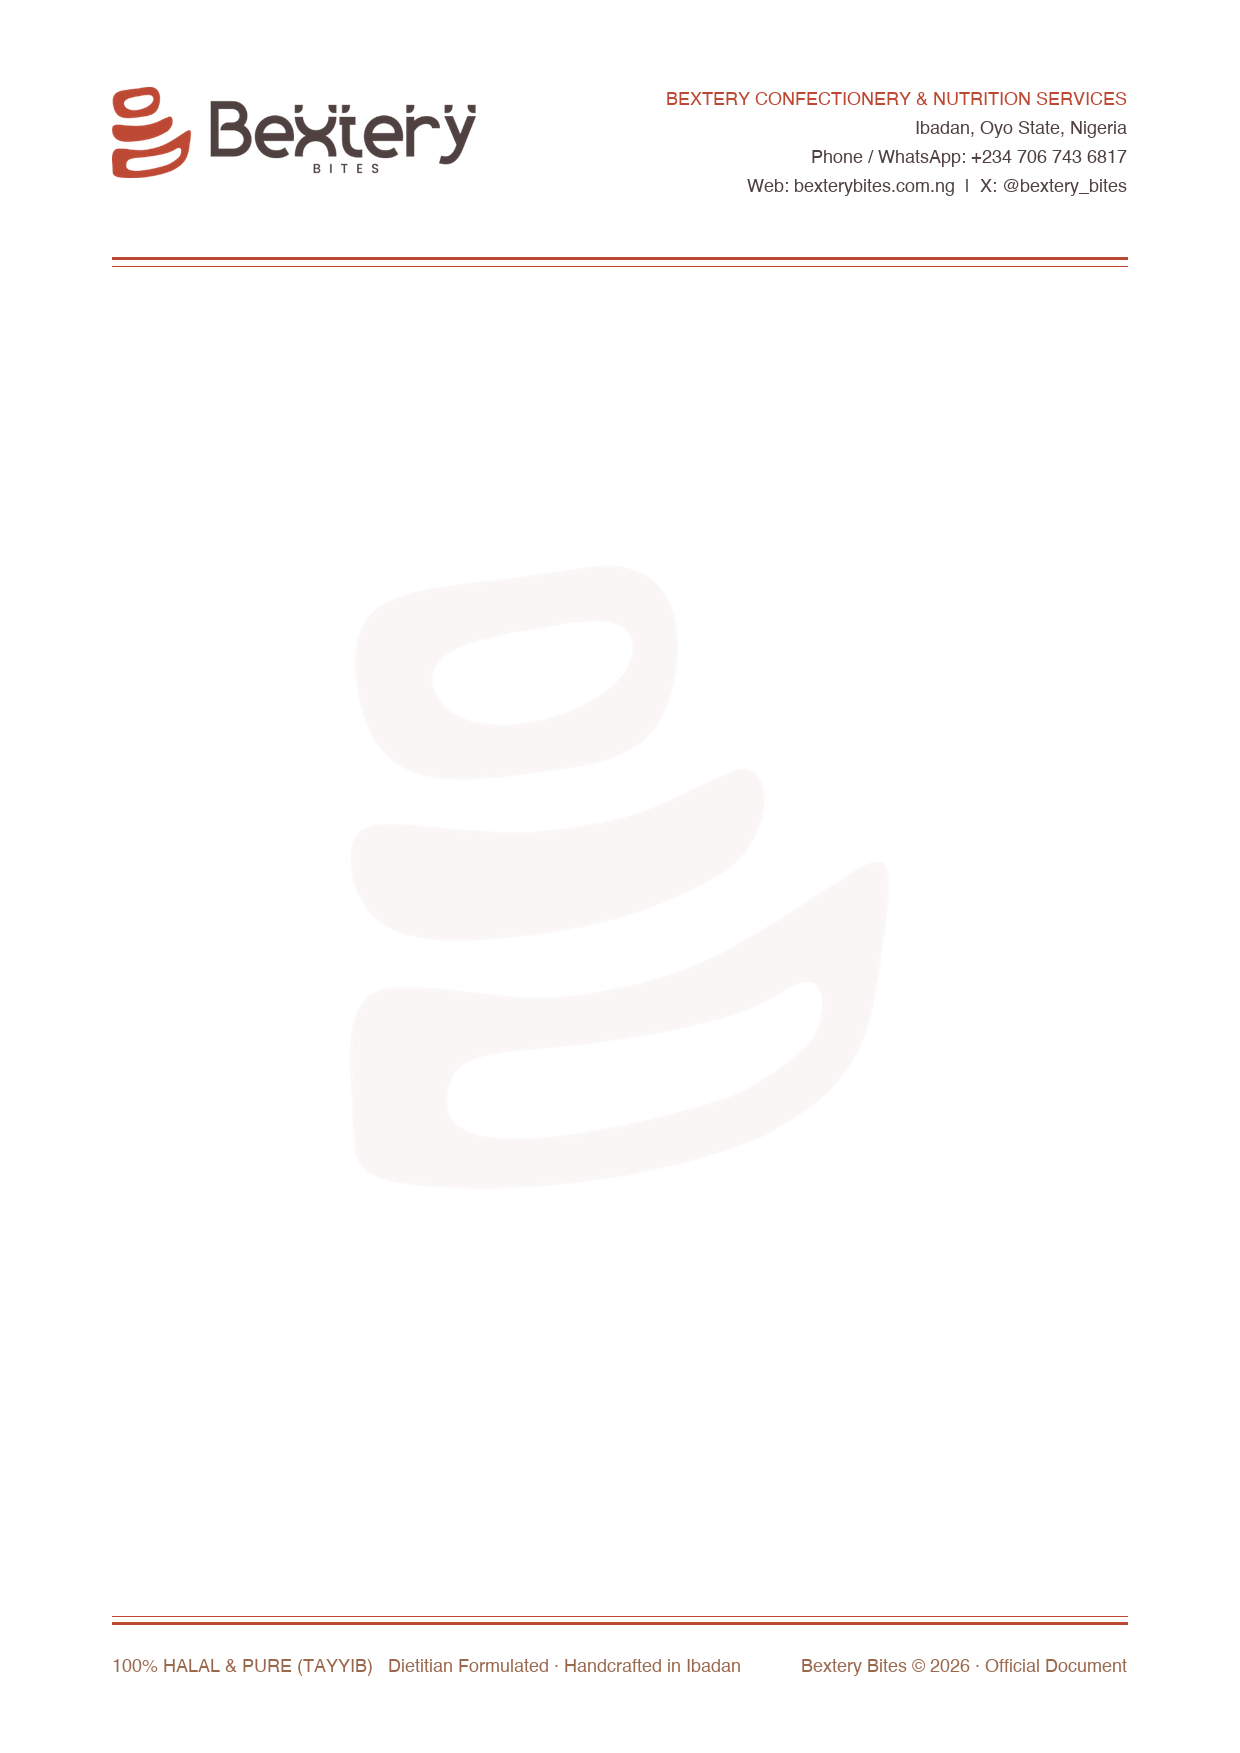
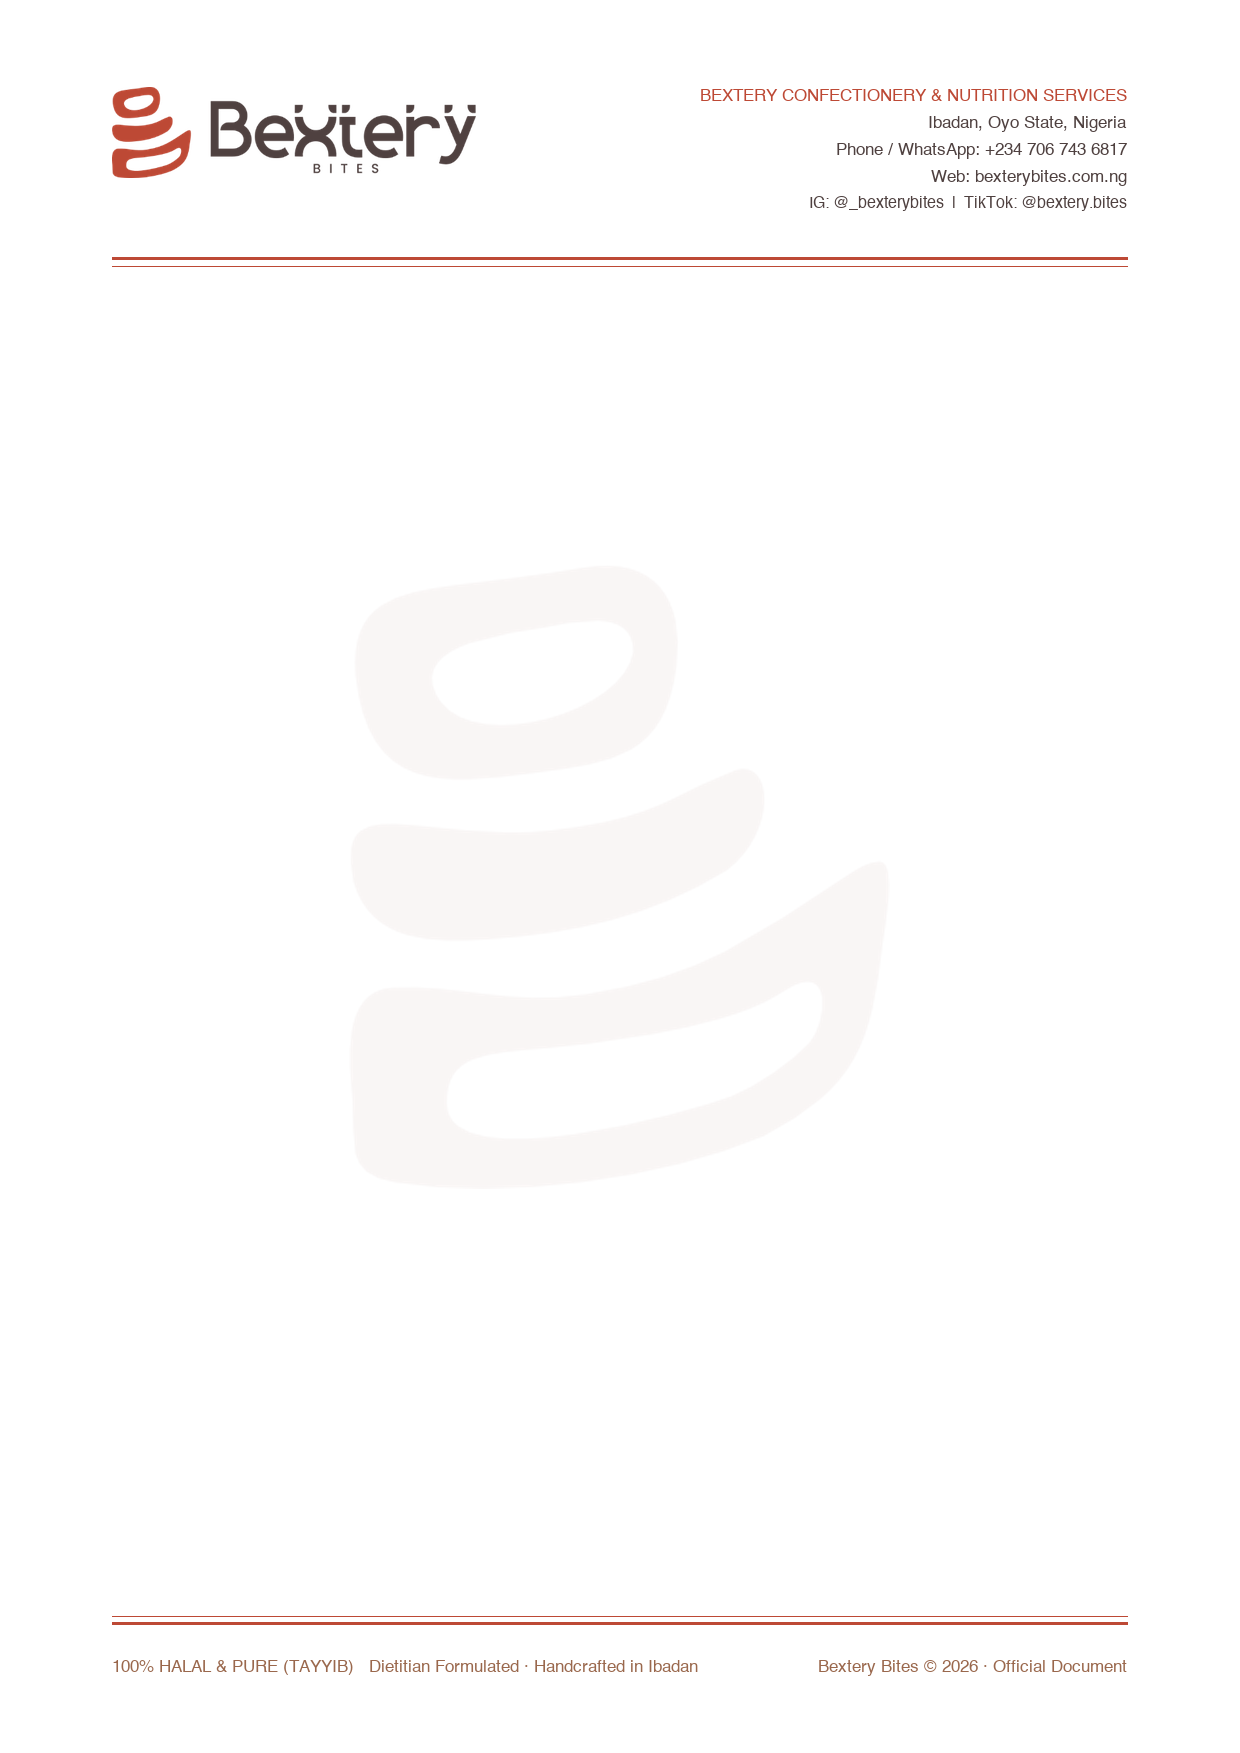
fix(build): use default next build Turbopack and sync social handles across site and letterhead

Changed region(s): [[0.5516, 0.0308, 0.9194, 0.1232], [0.0919, 0.9241, 0.5823, 0.9549], [0.6435, 0.9241, 0.8887, 0.9549]]

diff --git a/components/sections/InstagramFeed.tsx b/components/sections/InstagramFeed.tsx
@@ -61,31 +61,55 @@ export default function InstagramFeed() {
             Follow the Journey
           </div>
           <h2 className="text-4xl sm:text-5xl lg:text-6xl font-display font-bold mb-4">
-            @bextery_bites
+            @_bexterybites
           </h2>
           <p className="text-sm sm:text-base text-brand-rose font-body max-w-2xl mx-auto">
-            Fresh daily drops, behind the scenes from our Ibadan kitchen, and evidence-based nutrition tips.
+            Fresh daily drops, cake decorating behind-the-scenes, and nutrition tips on Instagram and TikTok.
           </p>
         </div>
 
         {/* CTA Buttons */}
-        <div className="flex flex-col sm:flex-row justify-center gap-4 mb-14">
+        <div className="flex flex-wrap justify-center gap-3.5 mb-14">
+          <a
+            href="https://instagram.com/_bexterybites"
+            target="_blank"
+            rel="noopener noreferrer"
+            className="inline-flex items-center justify-center px-6 py-3 bg-gradient-to-r from-[#BD4935] to-[#9A684D] text-white font-body font-semibold rounded-full hover:opacity-95 transition-all shadow-md text-xs sm:text-sm uppercase tracking-wider"
+          >
+            <svg width="15" height="15" viewBox="0 0 24 24" fill="none" stroke="currentColor" strokeWidth="2" strokeLinecap="round" strokeLinejoin="round" className="mr-2">
+              <rect width="20" height="20" x="2" y="2" rx="5" ry="5"/>
+              <path d="M16 11.37A4 4 0 1 1 12.63 8 4 4 0 0 1 16 11.37z"/>
+              <line x1="17.5" x2="17.51" y1="6.5" y2="6.5"/>
+            </svg>
+            Instagram (@_bexterybites)
+          </a>
+          <a
+            href="https://www.tiktok.com/@bextery.bites"
+            target="_blank"
+            rel="noopener noreferrer"
+            className="inline-flex items-center justify-center px-6 py-3 bg-black/60 border border-white/20 text-white font-body font-semibold rounded-full hover:bg-black/90 transition-all shadow-md text-xs sm:text-sm uppercase tracking-wider"
+          >
+            <svg width="14" height="14" viewBox="0 0 24 24" fill="currentColor" className="mr-2">
+              <path d="M19.59 6.69a4.83 4.83 0 0 1-3.77-4.25V2h-3.45v13.67a2.89 2.89 0 0 1-5.2 1.74 2.89 2.89 0 0 1 2.31-4.64 2.93 2.93 0 0 1 .88.13V9.4a6.84 6.84 0 0 0-1-.05A6.33 6.33 0 0 0 3 15.68a6.34 6.34 0 0 0 10.86 4.43c1.7-1.7 1.8-4.28 1.8-6.19a9.66 9.66 0 0 0 5-1.42v-3.71a6.67 6.67 0 0 1-1.07-.1z"/>
+            </svg>
+            TikTok (@bextery.bites)
+          </a>
           <a
             href="https://x.com/bextery_bites"
             target="_blank"
             rel="noopener noreferrer"
-            className="inline-flex items-center justify-center px-7 py-3.5 bg-brand-red text-white font-body font-semibold rounded-full hover:bg-brand-brown transition-all duration-200 shadow-md text-xs sm:text-sm uppercase tracking-wider"
+            className="inline-flex items-center justify-center px-6 py-3 border border-brand-rose/40 text-brand-cream font-body font-semibold rounded-full hover:bg-white/5 transition-all text-xs sm:text-sm uppercase tracking-wider"
           >
             <XIcon className="w-4 h-4 mr-2" />
-            Connect on X (@bextery_bites)
+            X (@bextery_bites)
           </a>
           <a
             href="https://wa.me/2347067436817?text=Hi%20Bextery%20Bites%2C%20I%20love%20your%20creations!"
             target="_blank"
             rel="noopener noreferrer"
-            className="inline-flex items-center justify-center px-7 py-3.5 border-2 border-brand-rose/50 text-brand-cream font-body font-semibold rounded-full hover:bg-brand-rose/10 transition-all duration-200 text-xs sm:text-sm uppercase tracking-wider"
+            className="inline-flex items-center justify-center px-6 py-3 bg-brand-red text-white font-body font-semibold rounded-full hover:bg-brand-brown transition-all shadow-md text-xs sm:text-sm uppercase tracking-wider"
           >
-            WhatsApp Inquiry
+            WhatsApp
           </a>
         </div>
 

diff --git a/components/sections/Footer.tsx b/components/sections/Footer.tsx
@@ -80,19 +80,43 @@ export default function Footer() {
                 href="https://wa.me/2347067436817"
                 target="_blank"
                 rel="noopener noreferrer"
-                className="flex items-center gap-2 font-body text-brand-rose hover:text-white transition-colors"
+                className="flex items-center gap-2.5 font-body text-brand-rose hover:text-white transition-colors"
               >
                 <MessageCircle size={16} />
-                07067436817
+                <span>07067436817</span>
+              </a>
+              <a
+                href="https://instagram.com/_bexterybites"
+                target="_blank"
+                rel="noopener noreferrer"
+                className="flex items-center gap-2.5 font-body text-brand-rose hover:text-white transition-colors"
+              >
+                <svg width="16" height="16" viewBox="0 0 24 24" fill="none" stroke="currentColor" strokeWidth="2" strokeLinecap="round" strokeLinejoin="round">
+                  <rect width="20" height="20" x="2" y="2" rx="5" ry="5"/>
+                  <path d="M16 11.37A4 4 0 1 1 12.63 8 4 4 0 0 1 16 11.37z"/>
+                  <line x1="17.5" x2="17.51" y1="6.5" y2="6.5"/>
+                </svg>
+                <span>@_bexterybites</span>
+              </a>
+              <a
+                href="https://www.tiktok.com/@bextery.bites"
+                target="_blank"
+                rel="noopener noreferrer"
+                className="flex items-center gap-2.5 font-body text-brand-rose hover:text-white transition-colors"
+              >
+                <svg width="16" height="16" viewBox="0 0 24 24" fill="currentColor">
+                  <path d="M19.59 6.69a4.83 4.83 0 0 1-3.77-4.25V2h-3.45v13.67a2.89 2.89 0 0 1-5.2 1.74 2.89 2.89 0 0 1 2.31-4.64 2.93 2.93 0 0 1 .88.13V9.4a6.84 6.84 0 0 0-1-.05A6.33 6.33 0 0 0 3 15.68a6.34 6.34 0 0 0 10.86 4.43c1.7-1.7 1.8-4.28 1.8-6.19a9.66 9.66 0 0 0 5-1.42v-3.71a6.67 6.67 0 0 1-1.07-.1z"/>
+                </svg>
+                <span>@bextery.bites</span>
               </a>
               <a
                 href="https://x.com/bextery_bites"
                 target="_blank"
                 rel="noopener noreferrer"
-                className="flex items-center gap-2 font-body text-brand-rose hover:text-white transition-colors"
+                className="flex items-center gap-2.5 font-body text-brand-rose hover:text-white transition-colors"
               >
                 <XIcon size={16} />
-                @bextery_bites
+                <span>@bextery_bites</span>
               </a>
             </div>
           </div>

diff --git a/app/layout.tsx b/app/layout.tsx
@@ -85,7 +85,11 @@ export default function RootLayout({
                 addressRegion: "Oyo State",
                 addressCountry: "NG",
               },
-              sameAs: ["https://x.com/bextery_bites"],
+              sameAs: [
+                "https://instagram.com/_bexterybites",
+                "https://www.tiktok.com/@bextery.bites",
+                "https://x.com/bextery_bites",
+              ],
               priceRange: "₦₦",
             }),
           }}

diff --git a/public/letterhead.html b/public/letterhead.html
@@ -275,7 +275,7 @@
           <strong>Bextery Confectionery & Nutrition Services</strong><br>
           Ibadan, Oyo State, Nigeria<br>
           Phone / WhatsApp: +234 706 743 6817<br>
-          Web: bexterybites.com.ng | X: @bextery_bites
+          Web: bexterybites.com.ng | IG: @_bexterybites | TikTok: @bextery.bites
         </div>
       </div>
 

diff --git a/public/letterhead_blank.html b/public/letterhead_blank.html
@@ -191,7 +191,7 @@
           <strong>Bextery Confectionery & Nutrition Services</strong><br>
           Ibadan, Oyo State, Nigeria<br>
           Phone / WhatsApp: +234 706 743 6817<br>
-          Web: bexterybites.com.ng | X: @bextery_bites
+          Web: bexterybites.com.ng | IG: @_bexterybites | TikTok: @bextery.bites
         </div>
       </div>
 
